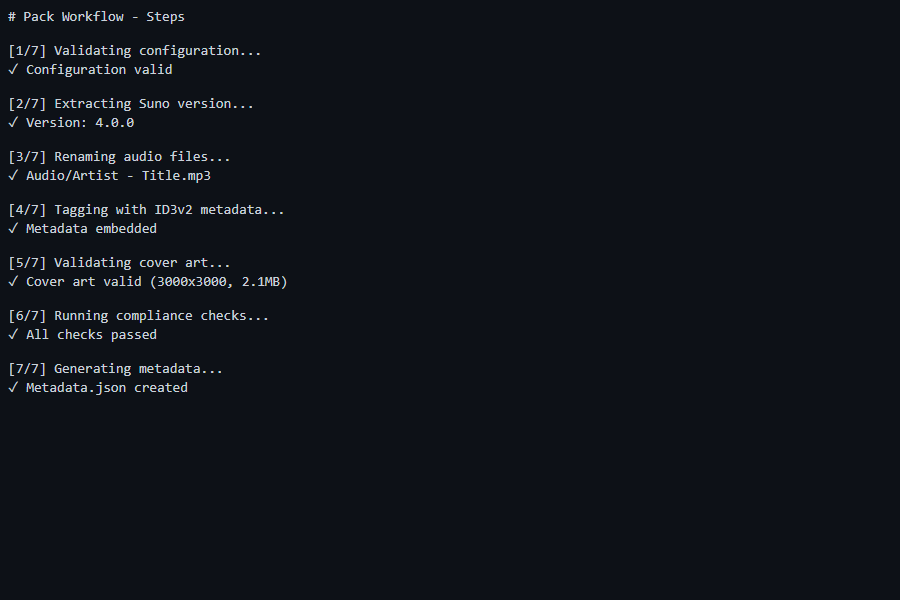
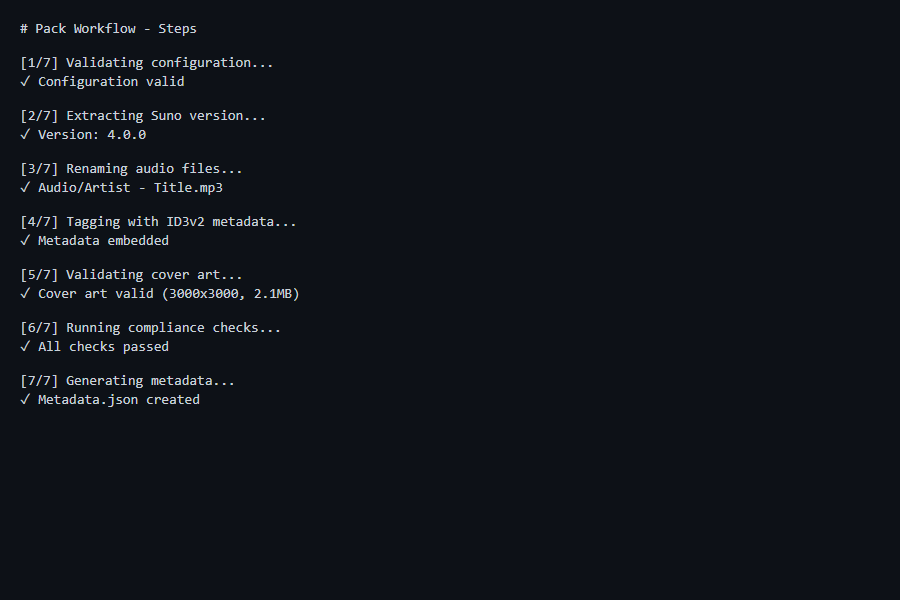
Fix dark theme in screenshots - ensure full HTML document with dark background
- Wrap HTML fragments in full HTML document with dark background
- Add explicit body/html styling for #0d1117 background
- Ensure screenshots show dark theme properly on GitHub

Changed region(s): [[0.0, 0.0, 0.3422, 0.69]]

diff --git a/assets/screenshots/pack-dry-run.html b/assets/screenshots/pack-dry-run.html
@@ -1,0 +1,35 @@
+<!DOCTYPE html>
+<html style="background-color: #0d1117;">
+<head>
+<meta charset="UTF-8">
+<style>
+body {
+    background-color: #0d1117;
+    margin: 0;
+    padding: 0;
+    color: #c9d1d9;
+}
+</style>
+</head>
+<body style="background-color: #0d1117; margin: 0; padding: 0;">
+<pre style='font-family: Consolas, Monaco, monospace; font-size: 14px; background-color: #0d1117; color: #c9d1d9; padding: 20px; margin: 0;'><span class="r1"># Pack - Dry Run Validation</span>
+
+<span class="r2">╔══════════════════════════════════════════════════════════════════════════════╗</span>
+<span class="r2">║</span>                                                                              <span class="r2">║</span>
+<span class="r2">║</span>  <span class="r1">Validating Configuration</span>                                                    <span class="r2">║</span>
+<span class="r2">║</span>                                                                              <span class="r2">║</span>
+<span class="r2">║</span>  <span class="r3">Config:</span> <span class="r1">configs/release.json</span>                                                <span class="r2">║</span>
+<span class="r2">║</span>                                                                              <span class="r2">║</span>
+<span class="r2">╚══════════════════════════════════════════════════════════════════════════════╝</span>
+
+<span class="r4">╔══════════════════════════════════════════════════════════════════════════════╗</span>
+<span class="r4">║</span>                                                                              <span class="r4">║</span>
+<span class="r4">║</span>  <span class="r5">✓ Configuration is Valid</span>                                                    <span class="r4">║</span>
+<span class="r4">║</span>                                                                              <span class="r4">║</span>
+<span class="r4">║</span>  <span class="r6">All checks passed. Run without --dry-run to process.</span>                        <span class="r4">║</span>
+<span class="r4">║</span>                                                                              <span class="r4">║</span>
+<span class="r4">╚══════════════════════════════════════════════════════════════════════════════╝</span>
+
+</pre>
+</body>
+</html>

diff --git a/assets/screenshots/pack-workflow-steps.html b/assets/screenshots/pack-workflow-steps.html
@@ -1,0 +1,40 @@
+<!DOCTYPE html>
+<html style="background-color: #0d1117;">
+<head>
+<meta charset="UTF-8">
+<style>
+body {
+    background-color: #0d1117;
+    margin: 0;
+    padding: 0;
+    color: #c9d1d9;
+}
+</style>
+</head>
+<body style="background-color: #0d1117; margin: 0; padding: 0;">
+<pre style='font-family: Consolas, Monaco, monospace; font-size: 14px; background-color: #0d1117; color: #c9d1d9; padding: 20px; margin: 0;'><span class="r1"># Pack Workflow - Steps</span>
+
+<span class="r1">[</span><span class="r1">1</span><span class="r1">/</span><span class="r1">7</span><span class="r1">]</span> Validating configuration<span class="r2">...</span>
+<span class="r3">✓</span> Configuration valid
+
+<span class="r1">[</span><span class="r1">2</span><span class="r1">/</span><span class="r1">7</span><span class="r1">]</span> Extracting Suno version<span class="r2">...</span>
+<span class="r3">✓</span> Version: <span class="r1">4.0</span>.<span class="r1">0</span>
+
+<span class="r1">[</span><span class="r1">3</span><span class="r1">/</span><span class="r1">7</span><span class="r1">]</span> Renaming audio files<span class="r2">...</span>
+<span class="r3">✓</span> Audio/Artist - Title.mp3
+
+<span class="r1">[</span><span class="r1">4</span><span class="r1">/</span><span class="r1">7</span><span class="r1">]</span> Tagging with ID3v2 metadata<span class="r2">...</span>
+<span class="r3">✓</span> Metadata embedded
+
+<span class="r1">[</span><span class="r1">5</span><span class="r1">/</span><span class="r1">7</span><span class="r1">]</span> Validating cover art<span class="r2">...</span>
+<span class="r3">✓</span> Cover art valid <span class="r4">(</span>300<span class="r1">0x3000</span>, <span class="r1">2.</span>1MB<span class="r4">)</span>
+
+<span class="r1">[</span><span class="r1">6</span><span class="r1">/</span><span class="r1">7</span><span class="r1">]</span> Running compliance checks<span class="r2">...</span>
+<span class="r3">✓</span> All checks passed
+
+<span class="r1">[</span><span class="r1">7</span><span class="r1">/</span><span class="r1">7</span><span class="r1">]</span> Generating metadata<span class="r2">...</span>
+<span class="r3">✓</span> Metadata.json created
+
+</pre>
+</body>
+</html>

diff --git a/assets/screenshots/pack-workflow-success.html b/assets/screenshots/pack-workflow-success.html
@@ -1,0 +1,30 @@
+<!DOCTYPE html>
+<html style="background-color: #0d1117;">
+<head>
+<meta charset="UTF-8">
+<style>
+body {
+    background-color: #0d1117;
+    margin: 0;
+    padding: 0;
+    color: #c9d1d9;
+}
+</style>
+</head>
+<body style="background-color: #0d1117; margin: 0; padding: 0;">
+<pre style='font-family: Consolas, Monaco, monospace; font-size: 14px; background-color: #0d1117; color: #c9d1d9; padding: 20px; margin: 0;'><span class="r1"># Pack Workflow - Success</span>
+
+<span class="r2">╔══════════════════════════════════════════════════════════════════════════════╗</span>
+<span class="r2">║</span>                                                                              <span class="r2">║</span>
+<span class="r2">║</span>  <span class="r3">✓ Release Packed Successfully!</span>                                              <span class="r2">║</span>
+<span class="r2">║</span>                                                                              <span class="r2">║</span>
+<span class="r2">║</span>  <span class="r4">Output: runtime/output/My Awesome Track/</span>                                    <span class="r2">║</span>
+<span class="r2">║</span>  <span class="r4">  ├── Audio/Artist - Title.mp3</span>                                              <span class="r2">║</span>
+<span class="r2">║</span>  <span class="r4">  ├── Cover/Artist - Title - Cover.jpg</span>                                      <span class="r2">║</span>
+<span class="r2">║</span>  <span class="r4">  └── Metadata/Artist - Title - Metadata.json</span>                               <span class="r2">║</span>
+<span class="r2">║</span>                                                                              <span class="r2">║</span>
+<span class="r2">╚══════════════════════════════════════════════════════════════════════════════╝</span>
+
+</pre>
+</body>
+</html>

diff --git a/assets/screenshots/pack-workflow-start.html b/assets/screenshots/pack-workflow-start.html
@@ -1,0 +1,27 @@
+<!DOCTYPE html>
+<html style="background-color: #0d1117;">
+<head>
+<meta charset="UTF-8">
+<style>
+body {
+    background-color: #0d1117;
+    margin: 0;
+    padding: 0;
+    color: #c9d1d9;
+}
+</style>
+</head>
+<body style="background-color: #0d1117; margin: 0; padding: 0;">
+<pre style='font-family: Consolas, Monaco, monospace; font-size: 14px; background-color: #0d1117; color: #c9d1d9; padding: 20px; margin: 0;'><span class="r1"># Pack Workflow - Start</span>
+
+<span class="r2">╔══════════════════════════════════════════════════════════════════════════════╗</span>
+<span class="r2">║</span>                                                                              <span class="r2">║</span>
+<span class="r2">║</span>  <span class="r1">Processing Release</span>                                                          <span class="r2">║</span>
+<span class="r2">║</span>                                                                              <span class="r2">║</span>
+<span class="r2">║</span>  <span class="r3">Config:</span> <span class="r1">configs/release.json</span>                                                <span class="r2">║</span>
+<span class="r2">║</span>                                                                              <span class="r2">║</span>
+<span class="r2">╚══════════════════════════════════════════════════════════════════════════════╝</span>
+
+</pre>
+</body>
+</html>
